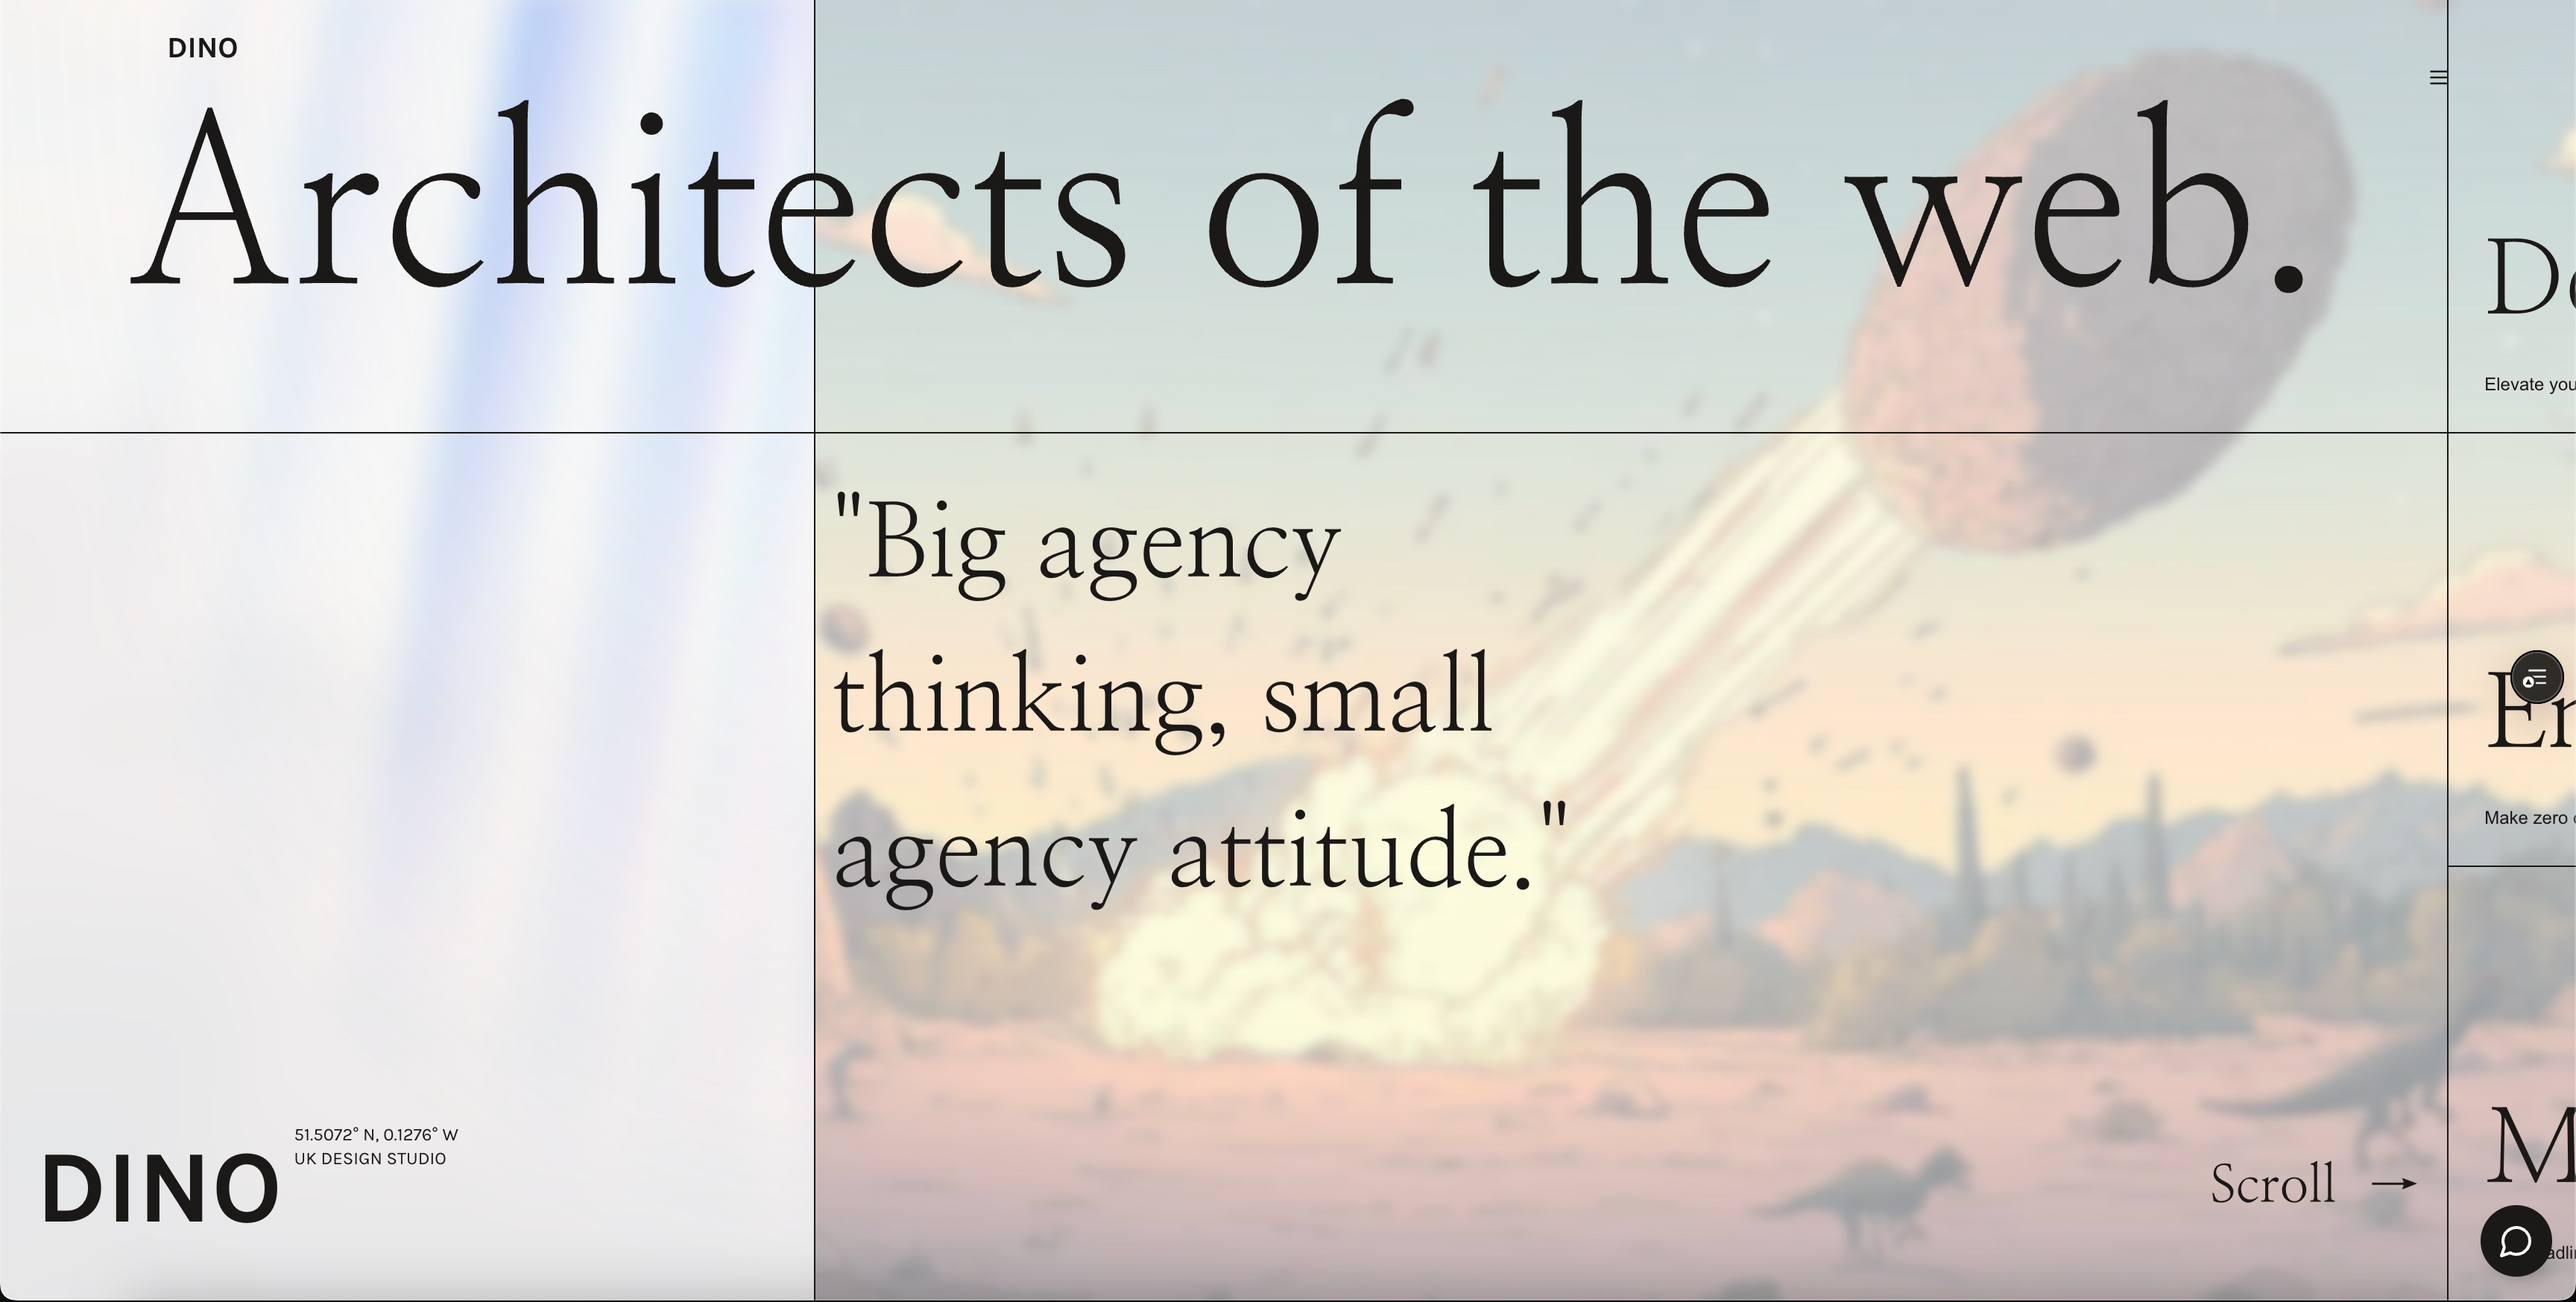
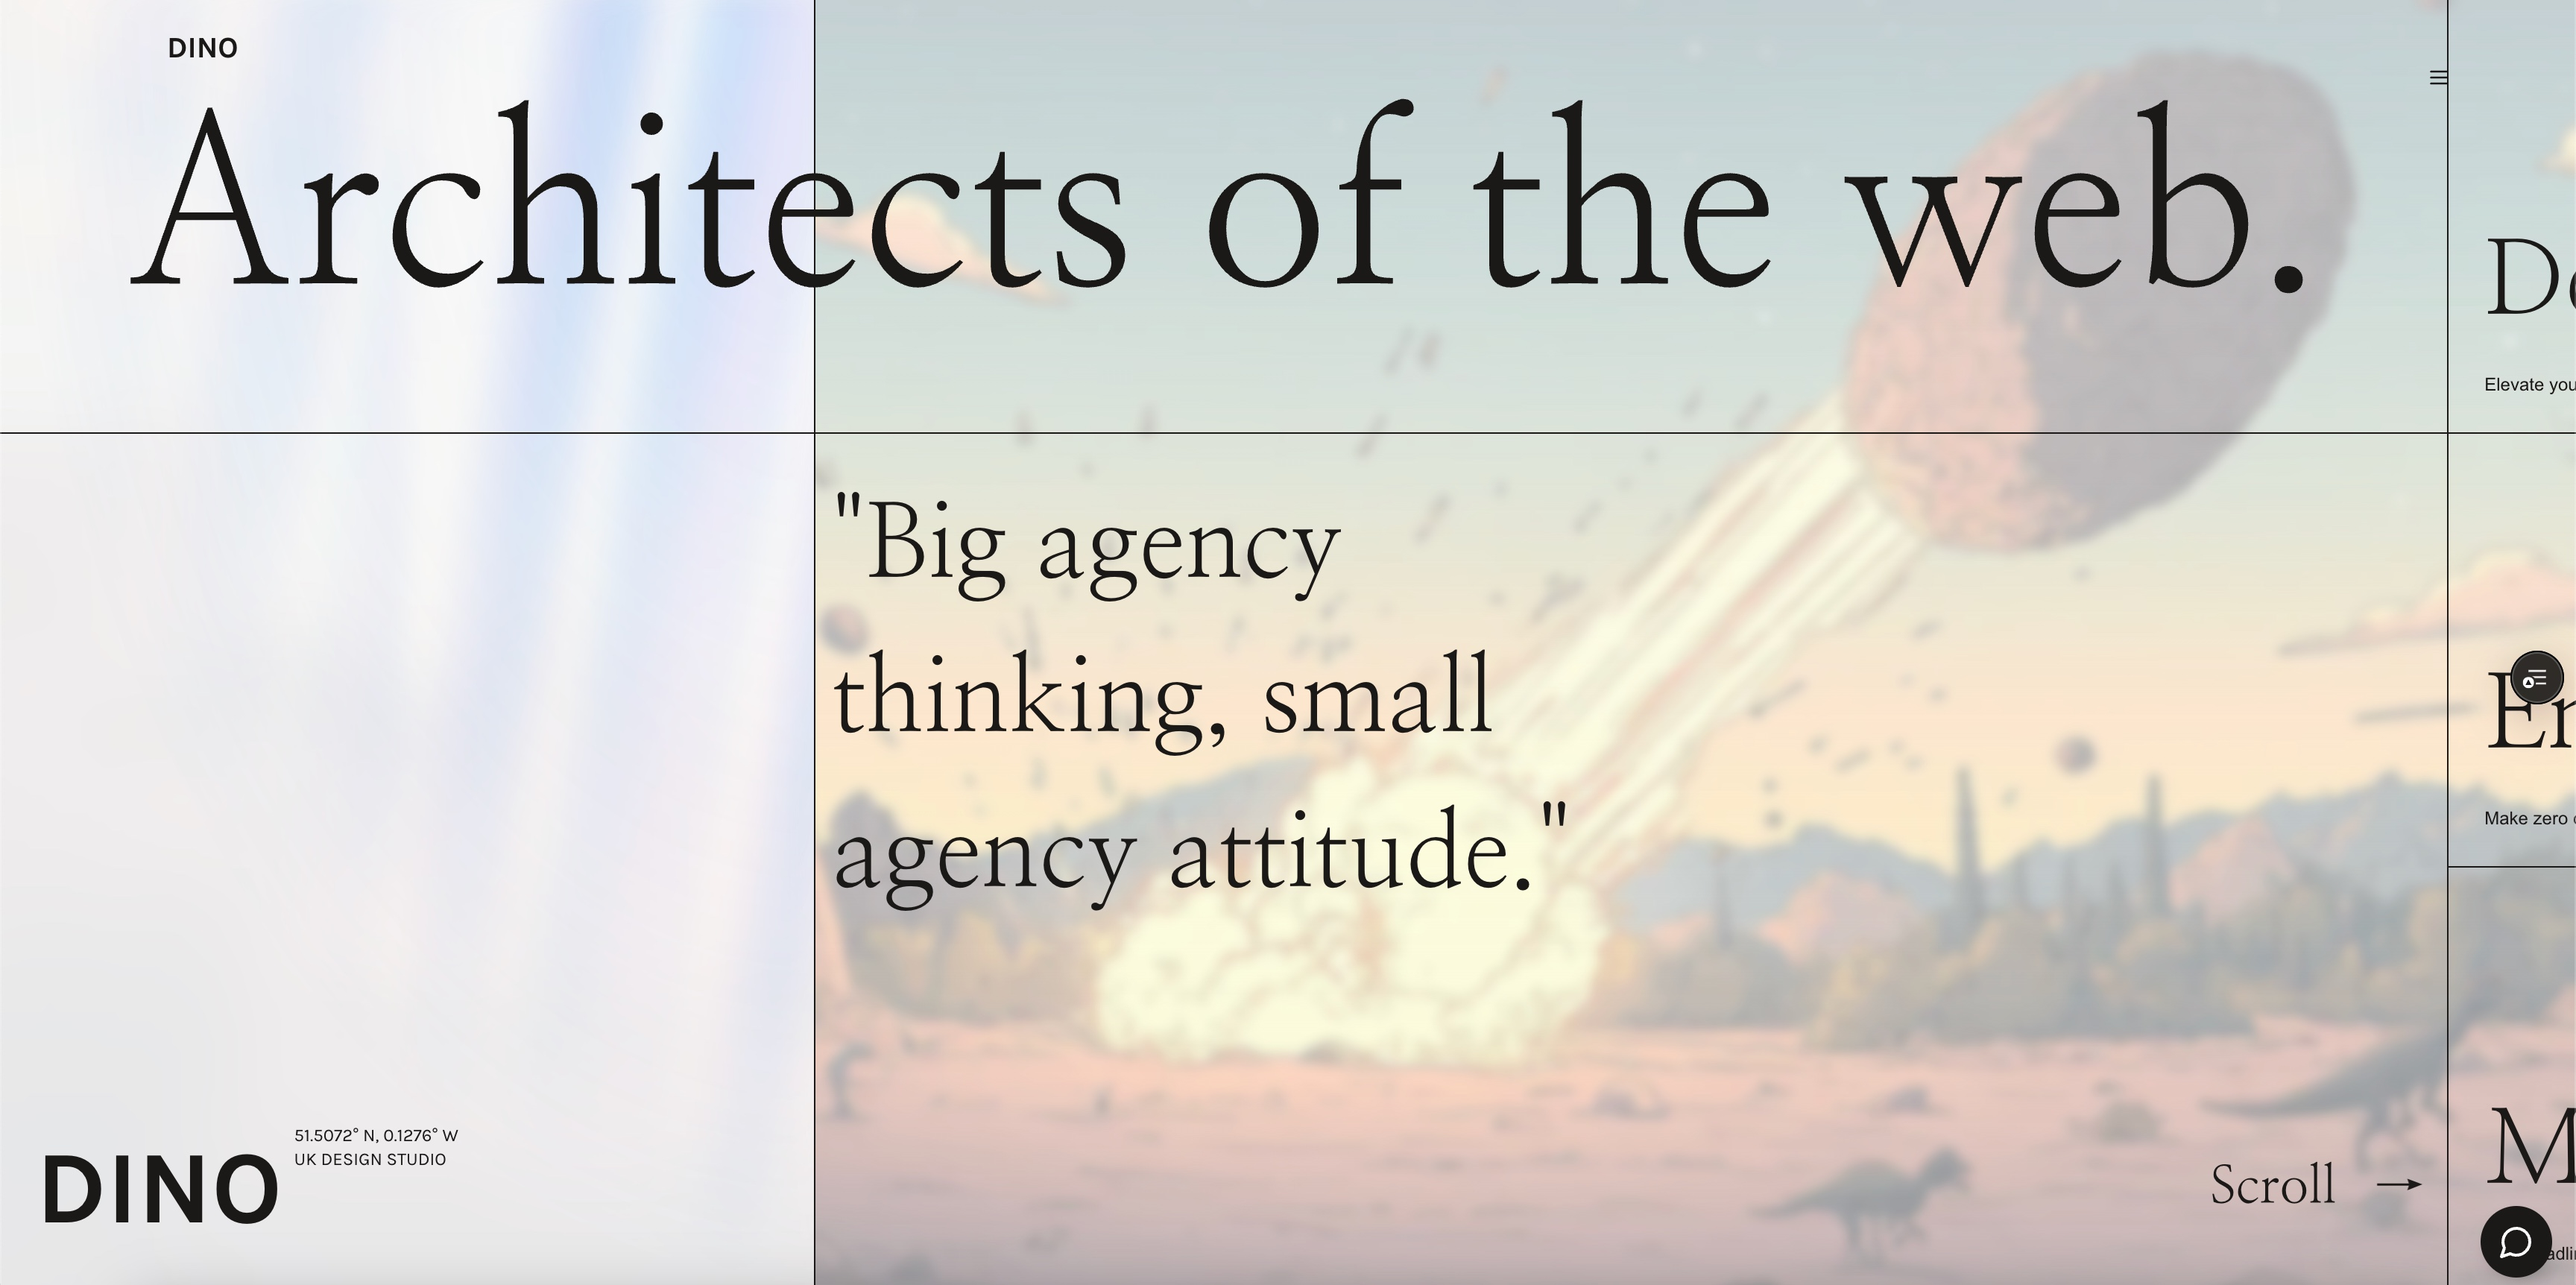
added about

diff --git a/src/app/(frontend)/about/page.tsx b/src/app/(frontend)/about/page.tsx
@@ -81,7 +81,7 @@ const About = () => {
         />
       </div>
       <div className="relative ">
-        <h2 className="text-zinc-900 text-[15rem] leading-[0.1] font-switzer font-bold z-10 absolute top-0 left-0">
+        <h2 className="text-zinc-900 text-[15rem] leading-[0.1] font-switzer font-bold z-10 absolute -top-14 left-0">
           DINO
         </h2>
         <div className="w-[75%] h-[75vh] relative flex justify-center items-center ml-auto">
@@ -89,81 +89,77 @@ const About = () => {
             src="/dino-madeleydesignstudio.jpg"
             alt="dino-madeleydesignstudio"
             fill
-            className="object-cover "
+            className="object-cover rounded-l-xl"
           />
         </div>
       </div>
-      <div className="max-w-5xl">
-        <p className="font-switzer text-zinc-900 text-xl">
-          Lorem ipsum dolor sit, amet consectetur adipisicing elit. Quo aperiam
-          dignissimos, temporibus asperiores autem cum beatae blanditiis velit
-          molestiae sed quidem, totam iure sint illo. Suscipit laborum odit
-          sequi magnam? Id obcaecati quas vitae cum totam neque nobis non
-          labore, voluptatem fuga dicta explicabo beatae placeat quis tempore ex
-          vel aliquam quia nam vero? Dolor suscipit nulla quo voluptate culpa.
-          Fuga tenetur similique fugit, minus aliquid commodi quisquam, hic
-          voluptates quia officia eligendi, odio iure illum nihil itaque
-          deleniti voluptatem enim neque molestiae optio ipsum. Placeat
-          voluptatem dignissimos minima aperiam. Tenetur deleniti quo
-          accusantium repellendus, nemo est hic? Iste laborum aliquam sapiente
-          culpa labore reprehenderit corrupti alias eveniet, nobis, voluptate
-          pariatur, magnam facilis? Praesentium autem esse mollitia illum quo
-          magnam. Dolorum non quidem illum ut eius veritatis eos officiis
-          consectetur molestiae repellendus expedita, animi voluptas quibusdam
-          magni labore quae consequatur dolor sint quasi fugit aliquid
-          reprehenderit cumque! Dolorem, magnam quia. Suscipit recusandae veniam
-          magnam sapiente eum architecto sed eius, ipsam deleniti magni ut
-          maxime nesciunt voluptatum, voluptatem laborum ducimus possimus nam,
-          debitis sit nulla odit? Nulla nam sit aut ea. Reprehenderit saepe
-          rerum, iure ipsum tempore eligendi molestiae ad assumenda, ducimus
-          neque, cumque facilis quidem consequuntur praesentium rem iste amet
-          atque. Officia, accusantium. Repudiandae quo soluta a aliquid autem
-          aperiam! Iste accusantium modi quisquam tenetur placeat cum unde
-          aperiam, quae ut sed error minus mollitia! Laboriosam, impedit
-          reiciendis aliquam tenetur, magnam commodi assumenda vitae cum odit
-          repudiandae nobis nesciunt porro. Necessitatibus quasi laboriosam
-          ipsum praesentium aspernatur tempore sit debitis perspiciatis pariatur
-          eum dolore architecto, corporis deserunt? Neque expedita similique
-          fuga laboriosam, numquam dolorem praesentium nisi cupiditate autem,
-          aspernatur architecto consectetur? Consequuntur similique at, magnam
-          nemo delectus dolore ipsam maxime recusandae dicta, quae earum
-          eligendi mollitia consequatur exercitationem sunt dignissimos debitis
-          ullam laboriosam minus commodi itaque? Qui odio quaerat autem beatae?
-          Impedit officia quisquam cumque necessitatibus qui in deserunt. Nisi
-          officia repellendus quae quia quo pariatur ducimus quibusdam neque eos
-          saepe, quam omnis quasi eaque excepturi cum. Similique cumque
-          inventore qui. Asperiores, illo iure dolor porro ab inventore
-          provident praesentium, et quam repudiandae blanditiis natus id
-          accusantium tempora omnis ipsa velit? Odio natus, quia quis blanditiis
-          ea optio debitis! Tempora, impedit. Voluptatem delectus molestiae sit
-          vero dolore quia velit maiores, porro natus culpa illum quibusdam
-          eveniet esse beatae dolorem vel repellendus soluta dignissimos. Autem
-          accusamus numquam facilis quia quod ipsum magnam! Deserunt impedit rem
-          iste natus incidunt dicta reprehenderit cumque fugiat voluptatibus,
-          expedita, exercitationem porro commodi aspernatur unde beatae sint,
-          voluptates quis blanditiis. Esse, numquam. Molestias repudiandae
-          dolorem suscipit culpa amet! Tenetur, nostrum doloremque maiores
-          itaque veniam est enim veritatis quibusdam laboriosam harum vero quod
-          eligendi consequatur aut ullam dicta? Perferendis sint facilis velit
-          accusamus dolorum possimus dolores expedita corrupti sapiente! Ipsa,
-          tenetur, maiores quo voluptatum, atque at accusamus iste magni
-          eligendi voluptates temporibus? Earum rem molestias vel quam, tenetur
-          corrupti, veritatis tempore necessitatibus quasi non perferendis nihil
-          modi officia ut? Voluptatibus dicta aperiam animi maxime, modi ducimus
-          quam veniam autem dignissimos? Facere porro excepturi laudantium
-          molestiae! Numquam, eos reiciendis, suscipit, ipsa cumque sed officia
-          sit blanditiis ex libero vel a! Blanditiis libero consequatur commodi
-          accusantium in, ducimus aliquid ut distinctio doloremque dolorem
-          eveniet a eius? Blanditiis, omnis impedit velit vero, porro facilis
-          dolorum optio, autem voluptatum est ex a maxime. Accusantium sapiente
-          harum quisquam, fugiat, fuga voluptatum accusamus quibusdam ducimus
-          reprehenderit minus pariatur officiis tempora, culpa cumque aliquam
-          expedita ullam ab sequi! Repellat deleniti, consectetur laborum nisi
-          perspiciatis quae accusantium. Corrupti asperiores eos mollitia,
-          expedita ratione dolor exercitationem dicta adipisci ut vel quae eum?
-          Magni delectus, dolor eius ipsam aut, sequi libero labore voluptates
-          officia ratione quos, similique rerum dicta.
-        </p>
+      <div className="max-w-2xl mr-auto p-12">
+        <div className=" text-justify flex flex-col gap-y-6">
+          <p className="font-switzer text-zinc-900 text-lg font-semibold">
+            <span className="font-bold text-2xl ">Meet Dino:</span> Your Go-To
+            for Web Development & Marketing Dino isn&apos;t just another digital
+            design agency—it&apos;s the heartbeat of innovation, creativity, and
+            results. We&apos;re here to power your online presence, elevate your
+            brand, and turn your vision into a digital reality. But what makes
+            Dino different? Let us show you.
+          </p>
+          <p className="font-switzer text-zinc-900 text-lg font-semibold">
+            <span className="text-2xl">
+              We&apos;re Obsessed with the Details
+            </span>{" "}
+            At Dino, we don&apos;t just build websites; we craft experiences.
+            Every pixel, every line of code, and every piece of content is
+            meticulously designed to ensure your site isn&apos;t just
+            functional—it&apos;s unforgettable. We stay ahead of the curve by
+            using the latest technologies and design trends, so your website
+            technologies and design trends, so your website isn&apos;t just
+            modern today—it&apos;s future-proofed for tomorrow.
+          </p>
+          <p className="font-switzer text-zinc-900 text-lg font-semibold">
+            <span className="font-bold text-2xl">SEO That Actually Works</span>{" "}
+            Let&apos;s be real: SEO can feel like a mystery. But not with Dino.
+            We&apos;re passionate about making your website climb the search
+            engine ladder and stay there. From keyword optimization to
+            lightning-fast load times, we&apos;ve got the tools and expertise to
+            ensure your site ranks high and attracts the right audience. No
+            shortcuts, no fluff— just results.
+          </p>
+          <p className="font-switzer text-zinc-900 text-lg font-semibold">
+            <span className="font-bold text-2xl">
+              Your Success is Our Mission
+            </span>{" "}
+            We don&apos;t just work for you; we work with you. Dino is your
+            partner in every sense of the word. Whether you&apos;re launching a
+            new project, revamping an existing site, or building a full-scale
+            digital strategy, we&apos;re here to guide you every step of the
+            way. We listen, we collaborate, and we deliver solutions that align
+            with your goals—because your success is what drives us.
+          </p>
+          {/* <p className="font-switzer text-zinc-900 text-lg font-semibold">
+            <span className="font-bold text-2xl">Why Choose Dino?</span>{" "}
+            Cutting-Edge Technology: We don&apos;t follow trends—we set them.
+            From responsive design to seamless user experiences, we use the best
+            tools in the industry to make your site stand out. Transparent
+            Process: No jargon, no surprises. We keep you in the loop at every
+            stage, so you always know what&apos;s happening and why. Passionate
+            Team: Our team lives and breathes digital design and marketing.
+            We&apos;re not just good at what we do—we love it. And it shows in
+            every project we deliver. Results-Driven Approach: We don&apos;t
+            just deliver pretty websites; we deliver solutions that drive
+            traffic, engagement, and conversions.
+          </p> */}
+          <p className="font-switzer text-zinc-900 text-lg font-semibold">
+            <span className="font-bold text-2xl">
+              Let&apos;s Build Something Amazing Together
+            </span>{" "}
+            Dino isn&apos;t just about creating websites—it&apos;s about
+            creating opportunities. Whether you&apos;re a startup, a growing
+            business, or an established brand, we&apos;re here to help you
+            thrive in the digital world. Let&apos;s take your online presence to
+            the next level and make your brand impossible to ignore. Ready to
+            roar? Let&apos;s talk.
+          </p>
+        </div>
       </div>
     </div>
   );
